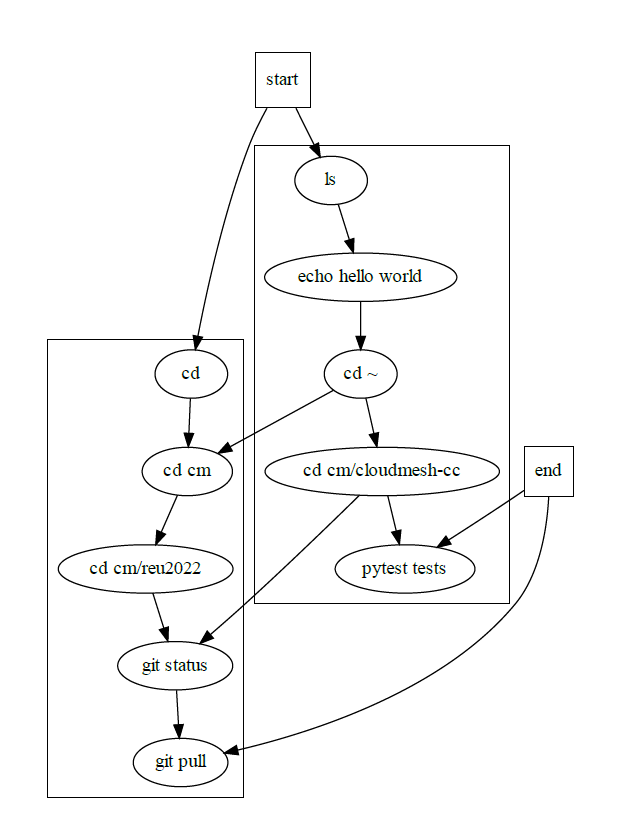
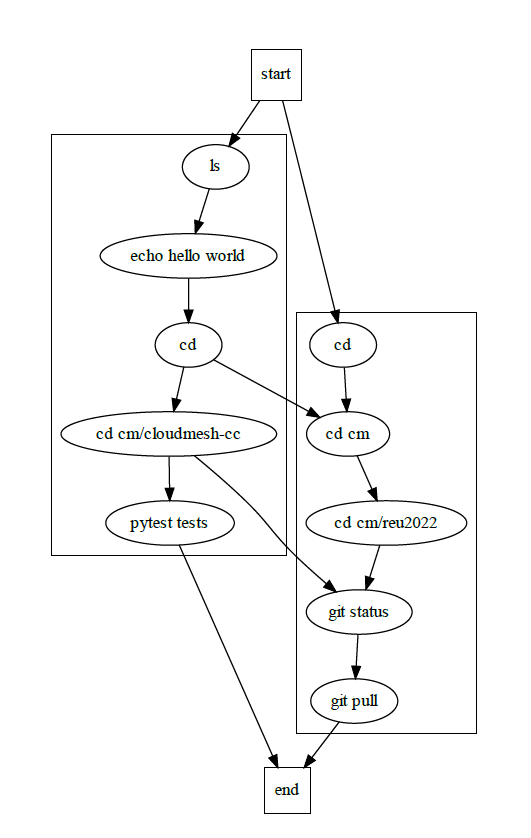
""

diff --git a/project/graphs/graphs-graphviz/examples/subgraph-graphviz.py b/project/graphs/graphs-graphviz/examples/subgraph-graphviz.py
@@ -5,7 +5,7 @@ g = graphviz.Digraph('jobs in queues', filename='subgraph-graphviz.gv')
 with g.subgraph(name='cluster_1') as s:
     s.node('job-1', 'ls')
     s.node('job-2', 'echo hello world')
-    s.node('job-3', 'cd ~')
+    s.node('job-3', 'cd')
     s.node('job-4', 'cd cm/cloudmesh-cc')
     s.node('job-5', 'pytest tests')
     s.edges([('job-1', 'job-2'), ('job-2', 'job-3'), ('job-3', 'job-4'),
@@ -22,8 +22,8 @@ with g.subgraph(name='cluster_2') as s:
 
 g.edge('start', 'job-1')
 g.edge('start', 'job-6')
-g.edge('end', 'job-5')
-g.edge('end', 'job-10')
+g.edge('job-5', 'end')
+g.edge('job-10', 'end')
 g.edge('job-3', 'job-7')
 g.edge('job-4', 'job-9')
 
